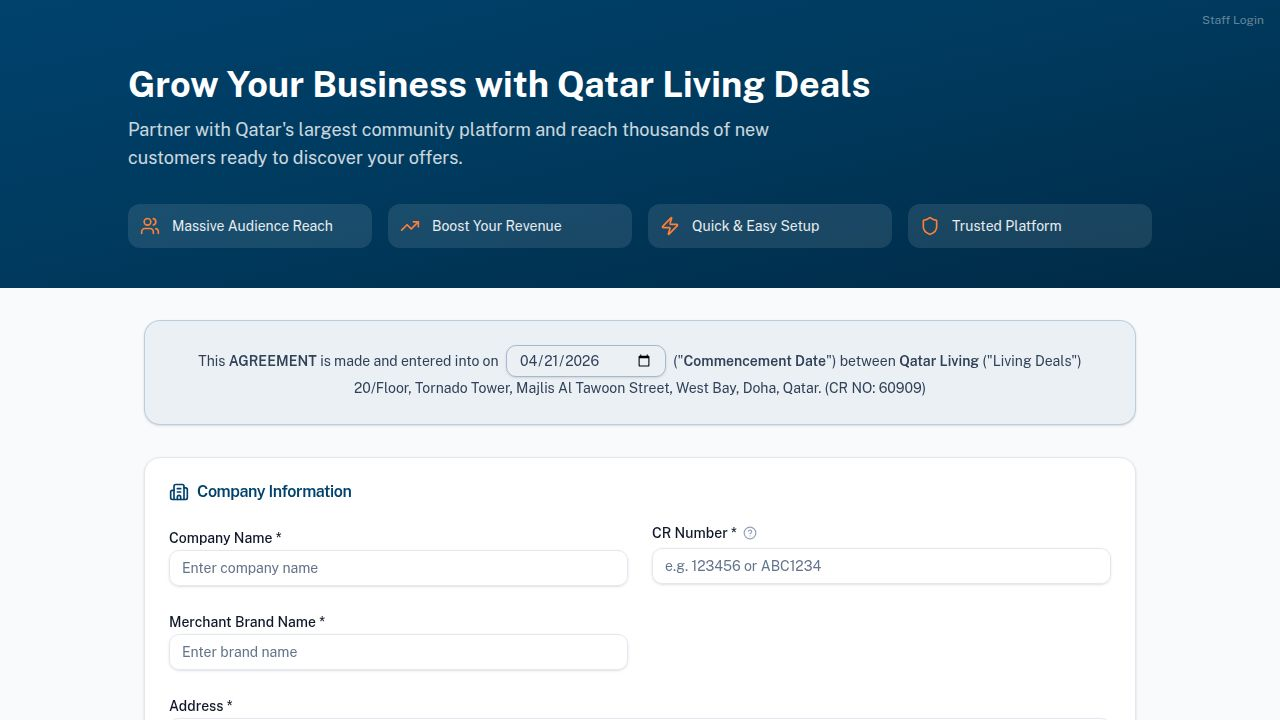
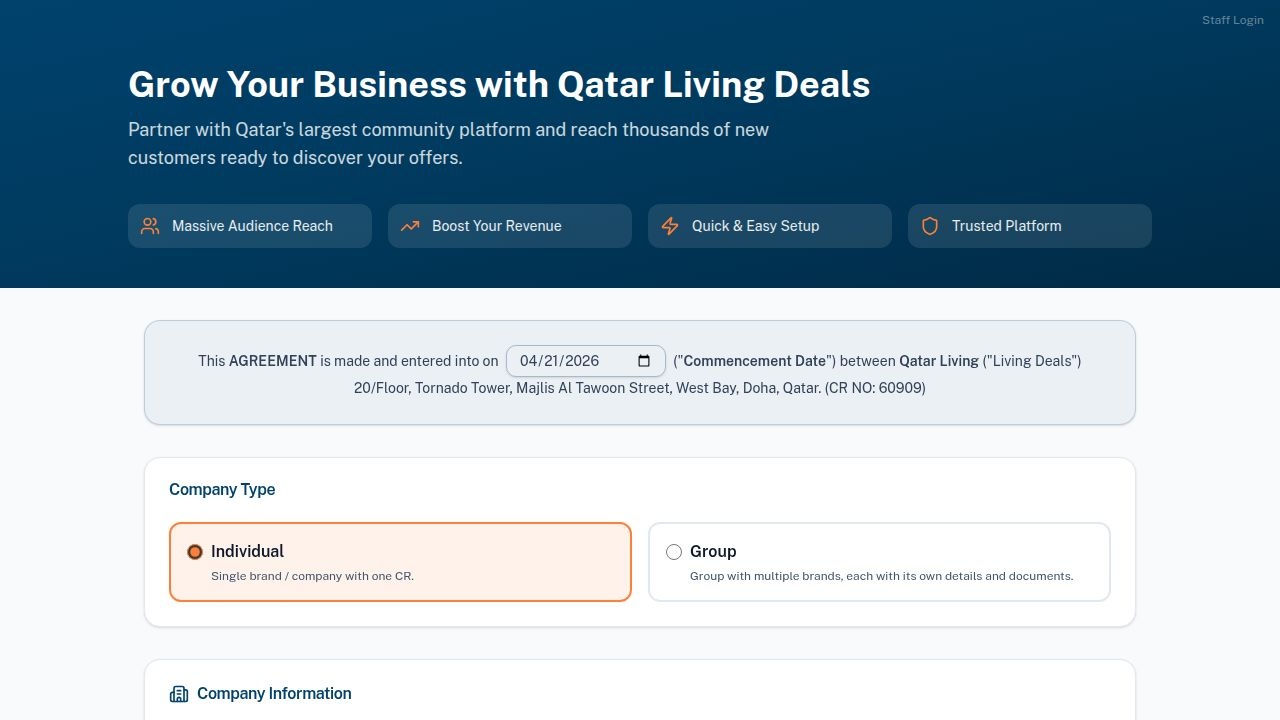
Add comprehensive branch and brand management to merchant editing
Introduce a new branch editor, enhance brand document uploads, and adjust group merchant fields to allow for detailed management of merchant locations and brand assets.

Replit-Commit-Author: Agent
Replit-Commit-Session-Id: ec1238de-f60a-4af2-b4ad-06c1d519e0e1
Replit-Commit-Checkpoint-Type: full_checkpoint
Replit-Commit-Event-Id: b919e2d2-e91a-44c0-bfd9-f9a8730b1c65
Replit-Commit-Screenshot-Url: https://storage.googleapis.com/screenshot-production-us-central1/b394de88-7ddf-4ef4-a4ce-ed4d9d0f175d/ec1238de-f60a-4af2-b4ad-06c1d519e0e1/OK5zuiy
Replit-Helium-Checkpoint-Created: true

Changed region(s): [[0.125, 0.6722, 0.8438, 0.9167], [0.125, 0.9472, 0.2812, 1.0]]

diff --git a/client/src/pages/MerchantEdit.tsx b/client/src/pages/MerchantEdit.tsx
@@ -124,6 +124,9 @@ export default function MerchantEdit() {
 
   const [deals, setDeals] = useState<Deal[]>([]);
   const [brands, setBrands] = useState<any[]>([]);
+  const [branches, setBranches] = useState<any[]>([]);
+  const [activeBrandDoc, setActiveBrandDoc] = useState<{ idx: number; field: string } | null>(null);
+  const brandDocFileRef = useRef<HTMLInputElement>(null);
   const [companyType, setCompanyType] = useState<"individual" | "group">("individual");
   const isGroup = companyType === "group";
   const dealCap = isGroup ? 200 : 50;
@@ -181,6 +184,12 @@ export default function MerchantEdit() {
       setMerchant(data);
       setCompanyType(data.companyType === "group" ? "group" : "individual");
       setBrands(Array.isArray(data.brands) ? data.brands : []);
+      const parsedBranches = Array.isArray(data.branches)
+        ? data.branches.map((b: any) => {
+            try { return typeof b === "string" ? JSON.parse(b) : b; } catch { return { name: String(b), location: "", phone: "", detail: "" }; }
+          })
+        : [];
+      setBranches(parsedBranches);
       setFormData({
         companyName: data.companyName || "",
         crNumber: data.crNumber || "",
@@ -356,6 +365,19 @@ export default function MerchantEdit() {
     reader.readAsDataURL(file);
   };
 
+  const handleBrandDocUpload = (idx: number, field: string, file: File) => {
+    const reader = new FileReader();
+    reader.onload = () => {
+      const dataUrl = reader.result as string;
+      setBrands(prev => prev.map((b, i) => i === idx ? { ...b, [field]: dataUrl } : b));
+    };
+    reader.readAsDataURL(file);
+  };
+
+  const updateBranch = (idx: number, patch: Record<string, any>) => {
+    setBranches(prev => prev.map((b, i) => i === idx ? { ...b, ...patch } : b));
+  };
+
   const handleSave = async () => {
     if (!merchant) return;
 
@@ -409,8 +431,16 @@ export default function MerchantEdit() {
         coverImage: merchant.coverImage || null,
       };
       if (isGroup) {
-        updateData.brands = brands;
+        updateData.brands = brands.map((b) => ({
+          ...b,
+          businessCategories: Array.isArray(b.businessCategories)
+            ? b.businessCategories
+            : (typeof b.businessCategories === "string" && b.businessCategories
+                ? b.businessCategories.split(",").map((c: string) => c.trim()).filter(Boolean)
+                : []),
+        }));
       }
+      updateData.branches = branches.map((b) => JSON.stringify(b));
       if (merchant.crDocument) updateData.crDocument = merchant.crDocument;
       if (merchant.establishmentCard) updateData.establishmentCard = merchant.establishmentCard;
       if (merchant.tradeLicense) updateData.tradeLicense = merchant.tradeLicense;
@@ -520,32 +550,36 @@ export default function MerchantEdit() {
                 />
               </div>
               
-              <div className="space-y-2">
-                <Label htmlFor="crNumber">CR Number</Label>
-                <Input
-                  id="crNumber"
-                  name="crNumber"
-                  value={formData.crNumber}
-                  onChange={handleChange}
-                  placeholder="e.g. 123456 or ABC1234"
-                  maxLength={14}
-                  data-testid="input-cr-number"
-                />
-                {formData.crNumber && !/^[a-zA-Z0-9]{4,14}$/.test(formData.crNumber) && (
-                  <p className="text-sm text-red-500">CR number must be 4-14 alphanumeric characters</p>
-                )}
-              </div>
-              
-              <div className="space-y-2">
-                <Label htmlFor="brandName">Brand Name</Label>
-                <Input
-                  id="brandName"
-                  name="brandName"
-                  value={formData.brandName}
-                  onChange={handleChange}
-                  data-testid="input-brand-name"
-                />
-              </div>
+              {!isGroup && (
+                <>
+                  <div className="space-y-2">
+                    <Label htmlFor="crNumber">CR Number</Label>
+                    <Input
+                      id="crNumber"
+                      name="crNumber"
+                      value={formData.crNumber}
+                      onChange={handleChange}
+                      placeholder="e.g. 123456 or ABC1234"
+                      maxLength={14}
+                      data-testid="input-cr-number"
+                    />
+                    {formData.crNumber && !/^[a-zA-Z0-9]{4,14}$/.test(formData.crNumber) && (
+                      <p className="text-sm text-red-500">CR number must be 4-14 alphanumeric characters</p>
+                    )}
+                  </div>
+
+                  <div className="space-y-2">
+                    <Label htmlFor="brandName">Brand Name</Label>
+                    <Input
+                      id="brandName"
+                      name="brandName"
+                      value={formData.brandName}
+                      onChange={handleChange}
+                      data-testid="input-brand-name"
+                    />
+                  </div>
+                </>
+              )}
               
               <div className="space-y-2">
                 <Label htmlFor="contactPerson">Contact Person</Label>
@@ -635,29 +669,33 @@ export default function MerchantEdit() {
               </div>
             </div>
 
-            <div className="space-y-2">
-              <Label htmlFor="products">Products (comma-separated)</Label>
-              <Input
-                id="products"
-                name="products"
-                value={formData.products}
-                onChange={handleChange}
-                placeholder="e.g. Food, Beverages, Retail"
-                data-testid="input-products"
-              />
-            </div>
-            
-            <div className="space-y-2">
-              <Label htmlFor="businessCategories">Business Categories (comma-separated)</Label>
-              <Input
-                id="businessCategories"
-                name="businessCategories"
-                value={formData.businessCategories}
-                onChange={handleChange}
-                placeholder="e.g. Restaurant, Cafe, Retail Store"
-                data-testid="input-categories"
-              />
-            </div>
+            {!isGroup && (
+              <>
+                <div className="space-y-2">
+                  <Label htmlFor="products">Products (comma-separated)</Label>
+                  <Input
+                    id="products"
+                    name="products"
+                    value={formData.products}
+                    onChange={handleChange}
+                    placeholder="e.g. Food, Beverages, Retail"
+                    data-testid="input-products"
+                  />
+                </div>
+
+                <div className="space-y-2">
+                  <Label htmlFor="businessCategories">Business Categories (comma-separated)</Label>
+                  <Input
+                    id="businessCategories"
+                    name="businessCategories"
+                    value={formData.businessCategories}
+                    onChange={handleChange}
+                    placeholder="e.g. Restaurant, Cafe, Retail Store"
+                    data-testid="input-categories"
+                  />
+                </div>
+              </>
+            )}
 
             <div className="grid grid-cols-1 md:grid-cols-2 gap-4">
               <div className="space-y-2">
@@ -799,7 +837,8 @@ export default function MerchantEdit() {
           </CardContent>
         </Card>
 
-        {/* Documents Section */}
+        {/* Documents Section - individual only (group docs live per-brand) */}
+        {!isGroup && (
         <Card>
           <CardHeader>
             <CardTitle className="text-[#00426D]">Documents</CardTitle>
@@ -874,6 +913,7 @@ export default function MerchantEdit() {
             </div>
           </CardContent>
         </Card>
+        )}
 
         {/* Brands - Group only */}
         {isGroup && (
@@ -943,22 +983,160 @@ export default function MerchantEdit() {
                       <Input value={b.whatsapp || ""} onChange={(e) => setBrands(brands.map((x, i) => i === idx ? { ...x, whatsapp: e.target.value } : x))} data-testid={`input-brand-${idx}-whatsapp`} />
                     </div>
                   </div>
-                  <div className="text-xs text-slate-500 pt-2 border-t">
-                    Documents: {[
-                      b.crDocument && "CR",
-                      b.tradeLicense && "Trade License",
-                      b.taxCardDocument && "Tax Card",
-                      b.establishmentCard && "Establishment Card",
-                      b.menuPriceList && "Menu",
-                      b.logo && "Logo",
-                      b.coverImage && "Cover",
-                    ].filter(Boolean).join(", ") || "None uploaded"}
+                  <div className="space-y-1">
+                    <Label>Business Categories (comma-separated)</Label>
+                    <Input
+                      value={Array.isArray(b.businessCategories) ? b.businessCategories.join(", ") : (b.businessCategories || "")}
+                      onChange={(e) => setBrands(brands.map((x, i) => i === idx ? { ...x, businessCategories: e.target.value } : x))}
+                      placeholder="e.g. Restaurant, Cafe, Retail Store"
+                      data-testid={`input-brand-${idx}-categories`}
+                    />
+                  </div>
+
+                  <div className="pt-3 border-t">
+                    <p className="text-sm font-medium text-[#00426D] mb-2">Brand Documents</p>
+                    <div className="grid grid-cols-2 md:grid-cols-4 gap-3">
+                      {[
+                        { label: "CR Document", field: "crDocument" },
+                        { label: "Establishment Card", field: "establishmentCard" },
+                        { label: "Trade License", field: "tradeLicense" },
+                        { label: "Tax Card", field: "taxCardDocument" },
+                        { label: "Menu/Price List", field: "menuPriceList" },
+                        { label: "Logo", field: "logo" },
+                        { label: "Cover Image", field: "coverImage" },
+                      ].map((doc) => {
+                        const value = b[doc.field] as string | undefined;
+                        const isUploaded = !!value;
+                        return (
+                          <div key={doc.field} className="p-3 border rounded-lg text-center bg-white">
+                            <FileText className={`h-6 w-6 mx-auto mb-1 ${isUploaded ? 'text-green-500' : 'text-slate-400'}`} />
+                            <p className="text-xs font-medium mb-1">{doc.label}</p>
+                            {isUploaded ? (
+                              <div className="space-y-0.5">
+                                {!value?.startsWith('data:') && (
+                                  <a href={value} target="_blank" rel="noopener noreferrer" className="text-[#00426D] hover:underline text-xs block" data-testid={`link-brand-${idx}-${doc.field}`}>View</a>
+                                )}
+                                <button
+                                  type="button"
+                                  className="text-xs text-blue-600 hover:underline block w-full"
+                                  onClick={() => { setActiveBrandDoc({ idx, field: doc.field }); brandDocFileRef.current?.click(); }}
+                                  data-testid={`button-replace-brand-${idx}-${doc.field}`}
+                                >
+                                  Replace
+                                </button>
+                                <button
+                                  type="button"
+                                  className="text-xs text-red-500 hover:underline block w-full"
+                                  onClick={() => setBrands(brands.map((x, i) => i === idx ? { ...x, [doc.field]: null } : x))}
+                                  data-testid={`button-remove-brand-${idx}-${doc.field}`}
+                                >
+                                  Remove
+                                </button>
+                              </div>
+                            ) : (
+                              <button
+                                type="button"
+                                className="text-xs text-blue-600 hover:underline"
+                                onClick={() => { setActiveBrandDoc({ idx, field: doc.field }); brandDocFileRef.current?.click(); }}
+                                data-testid={`button-upload-brand-${idx}-${doc.field}`}
+                              >
+                                Upload
+                              </button>
+                            )}
+                          </div>
+                        );
+                      })}
+                    </div>
                   </div>
                 </div>
               ))}
+              <input
+                type="file"
+                ref={brandDocFileRef}
+                accept="image/*,.pdf,application/pdf"
+                className="hidden"
+                onChange={(e) => {
+                  const file = e.target.files?.[0];
+                  if (file && activeBrandDoc) handleBrandDocUpload(activeBrandDoc.idx, activeBrandDoc.field, file);
+                  e.target.value = "";
+                }}
+                data-testid="input-brand-doc-file"
+              />
             </CardContent>
           </Card>
         )}
+
+        {/* Branches editor */}
+        <Card>
+          <CardHeader className="flex flex-row items-center justify-between">
+            <CardTitle className="text-[#00426D]">Branch Locations ({branches.length})</CardTitle>
+            <Button
+              variant="outline"
+              size="sm"
+              onClick={() => setBranches([...branches, { name: "", location: "", phone: "", detail: "", ...(isGroup ? { brandId: "" } : {}) }])}
+              data-testid="button-add-branch"
+            >
+              <Plus className="h-4 w-4 mr-1" /> Add Branch
+            </Button>
+          </CardHeader>
+          <CardContent className="space-y-4">
+            {branches.length === 0 && (
+              <p className="text-slate-500 text-sm text-center py-4">No branches added.</p>
+            )}
+            {branches.map((br, idx) => (
+              <div key={idx} className="p-4 border-2 border-[#00426D]/15 rounded-lg space-y-3 bg-slate-50/40" data-testid={`branch-edit-${idx}`}>
+                <div className="flex items-center justify-between">
+                  <h4 className="font-semibold text-[#00426D]">Branch {idx + 1}</h4>
+                  <Button
+                    variant="ghost"
+                    size="icon"
+                    className="text-red-500"
+                    onClick={() => setBranches(branches.filter((_, i) => i !== idx))}
+                    data-testid={`button-remove-branch-${idx}`}
+                  >
+                    <Trash2 className="h-4 w-4" />
+                  </Button>
+                </div>
+                <div className="grid grid-cols-1 md:grid-cols-2 gap-3">
+                  <div className="space-y-1">
+                    <Label>Branch Name</Label>
+                    <Input value={br.name || ""} onChange={(e) => updateBranch(idx, { name: e.target.value })} data-testid={`input-branch-${idx}-name`} />
+                  </div>
+                  <div className="space-y-1">
+                    <Label>Phone</Label>
+                    <Input value={br.phone || ""} onChange={(e) => updateBranch(idx, { phone: e.target.value })} data-testid={`input-branch-${idx}-phone`} />
+                  </div>
+                  <div className="space-y-1 md:col-span-2">
+                    <Label>Location URL (Google Maps)</Label>
+                    <Input value={br.location || ""} onChange={(e) => updateBranch(idx, { location: e.target.value })} placeholder="https://maps.google.com/..." data-testid={`input-branch-${idx}-location`} />
+                  </div>
+                  <div className="space-y-1 md:col-span-2">
+                    <Label>Address Details</Label>
+                    <Textarea value={br.detail || ""} onChange={(e) => updateBranch(idx, { detail: e.target.value })} rows={2} data-testid={`input-branch-${idx}-detail`} />
+                  </div>
+                  {isGroup && brands.length > 0 && (
+                    <div className="space-y-1 md:col-span-2">
+                      <Label>Belongs to Brand (optional)</Label>
+                      <Select value={br.brandId || "__none__"} onValueChange={(val) => updateBranch(idx, { brandId: val === "__none__" ? "" : val })}>
+                        <SelectTrigger data-testid={`select-branch-${idx}-brand`}>
+                          <SelectValue placeholder="Select brand" />
+                        </SelectTrigger>
+                        <SelectContent>
+                          <SelectItem value="__none__">— None —</SelectItem>
+                          {brands.map((br2, brIdx) => (
+                            <SelectItem key={brIdx} value={String(brIdx)}>
+                              {br2.brandName || `Brand ${brIdx + 1}`}
+                            </SelectItem>
+                          ))}
+                        </SelectContent>
+                      </Select>
+                    </div>
+                  )}
+                </div>
+              </div>
+            ))}
+          </CardContent>
+        </Card>
 
         {/* Deals Section */}
         <Card>
